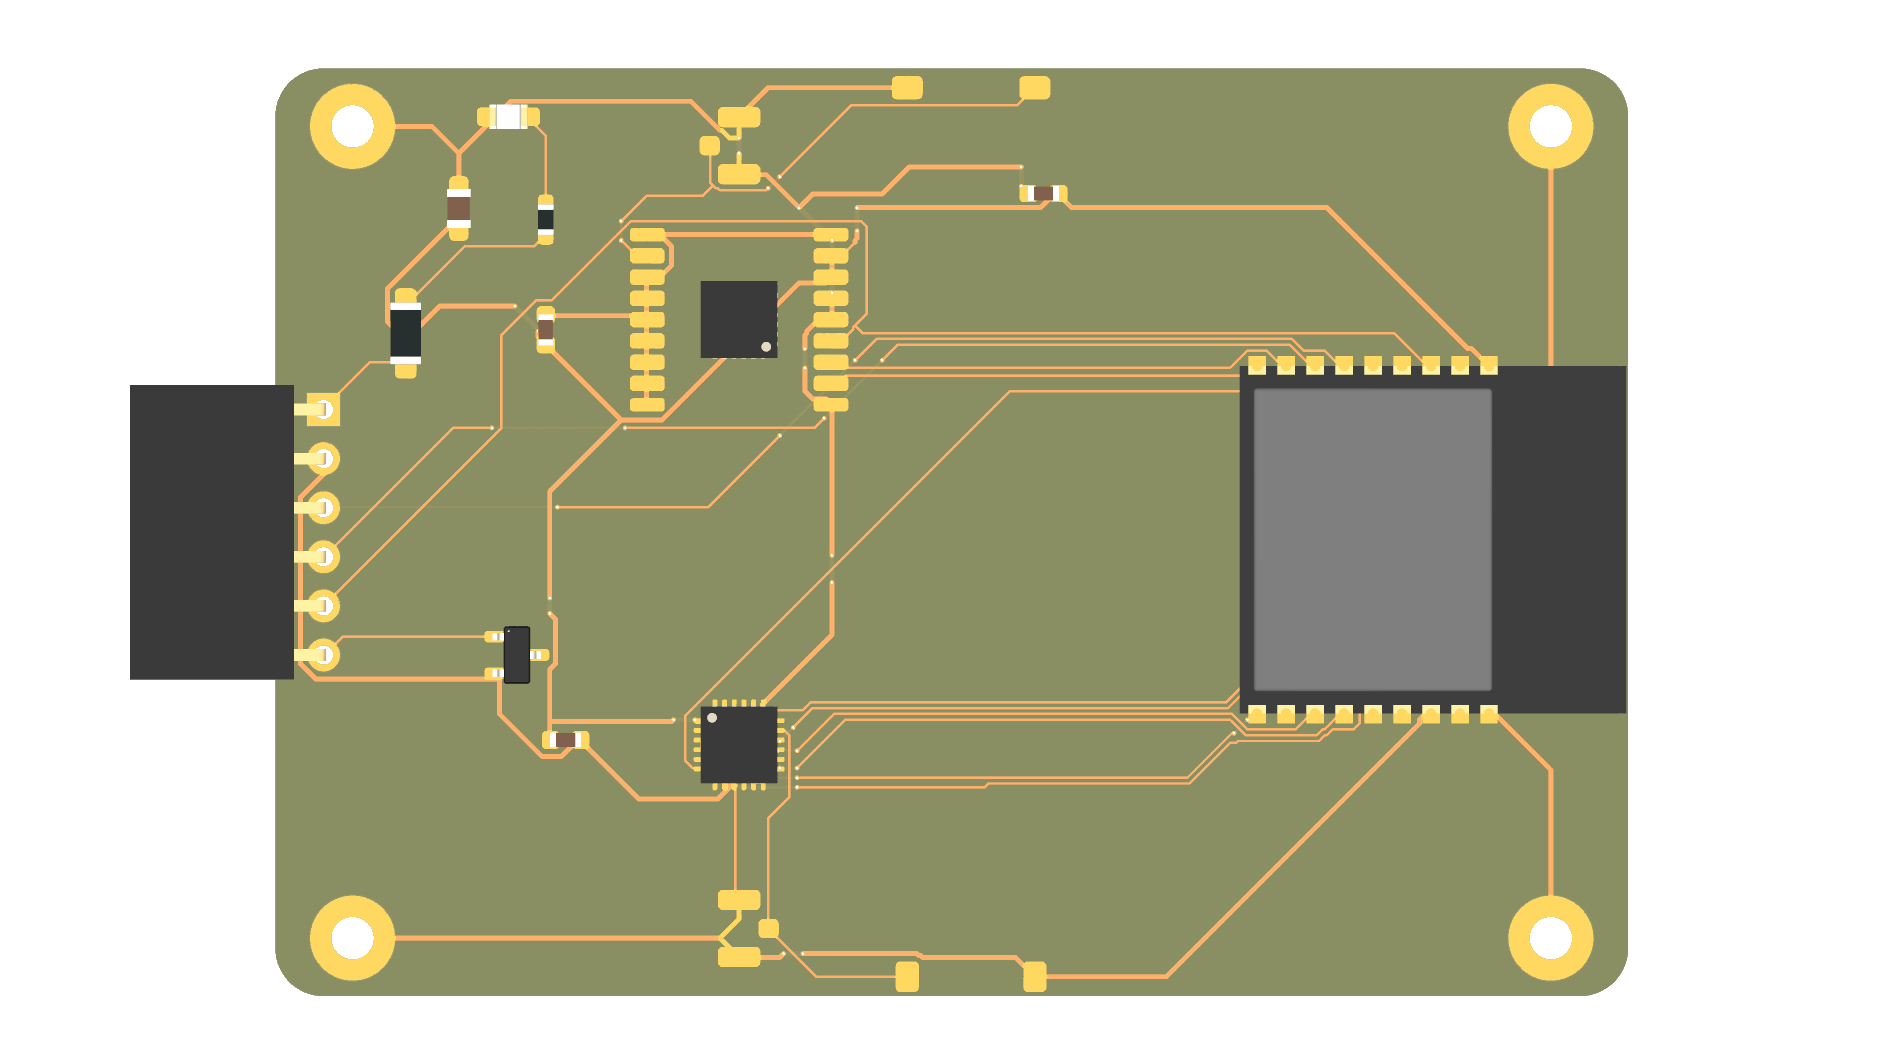
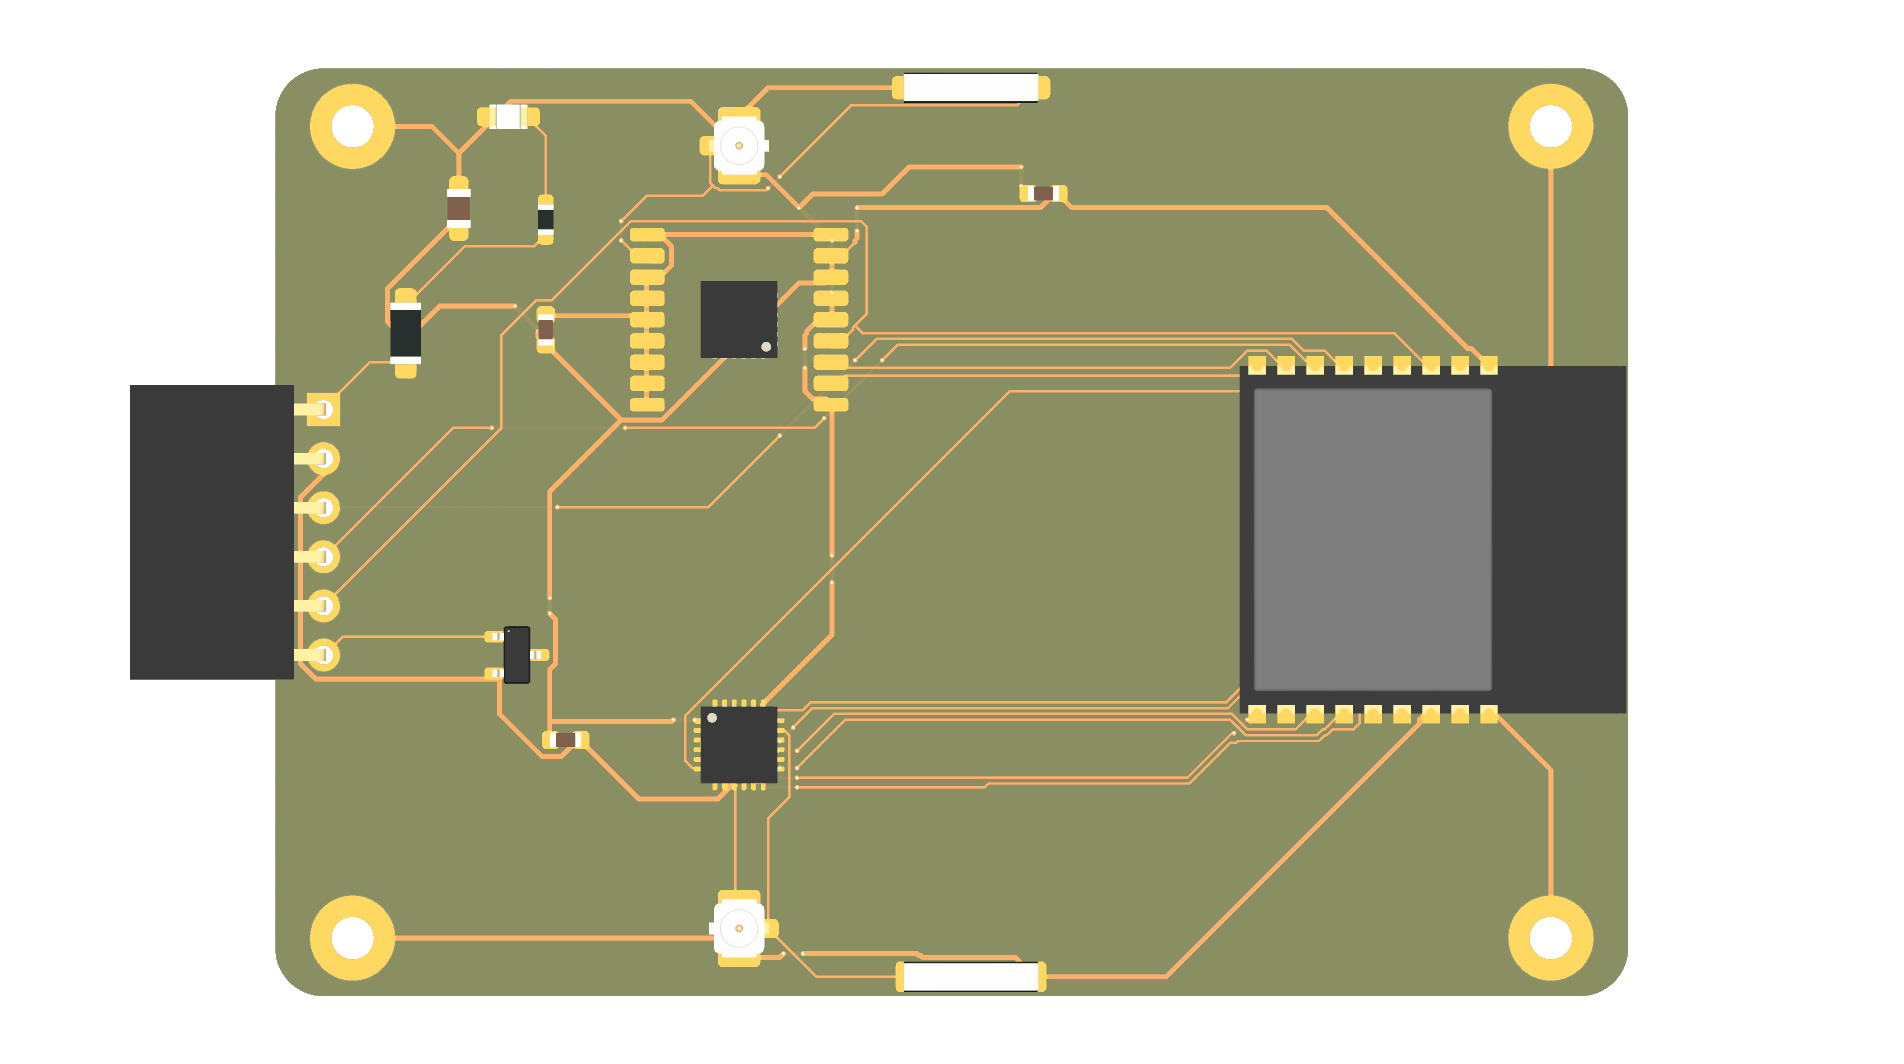
fix(hardware): assign KiCad 10 3D models for antennas and U.FL connectors on Rear Pod 3
- Added 3D model Pulse_W3000.step for ANT1 (LoRa 868MHz) and ANT2 (GNSS 1.575GHz).
- Added 3D model U.FL_Hirose_U.FL-R-SMT-1_Vertical.step for external RF coaxial ports J2 and J3.
- Migrated all legacy ${KICAD8_3DMODEL_DIR} path references to native KiCad 10 ${KICAD10_3DMODEL_DIR}.
- Synchronized generate_rear_pod3_routed_ready.py with KiCad 10 paths and antenna models.
- Re-rendered 3D top/bottom PCB views now displaying the white ceramic chip antennas and gold U.FL receptacles.

diff --git a/hardware/scripts/generate_rear_pod3_routed_ready.py b/hardware/scripts/generate_rear_pod3_routed_ready.py
@@ -12,7 +12,7 @@ import re
 
 pcb_file = "hardware/kicad_rear_pod3/openmotorbridge_rear_pod3.kicad_pcb"
 kicad_fp_dir = "/Applications/KiCad/KiCad.app/Contents/SharedSupport/footprints"
-kicad_3d_dir = "${KICAD8_3DMODEL_DIR}"
+kicad_3d_dir = "${KICAD10_3DMODEL_DIR}"
 
 # 1. Netlist definition
 nets = [
@@ -188,13 +188,13 @@ components = [
     # u-blox MAX-M10S GNSS Subsystem & Antennas (Top edge - U2 rotated 180 for direct RF/SPI alignment)
     ("RF_GPS.pretty/ublox_MAX.kicad_mod", "U2", "MAX-M10S_GNSS", 124.00, 83.00, 180, "F.Cu", "Package_DFN_QFN.3dshapes/QFN-24-1EP_4x4mm_P0.5mm_EP2.6x2.6mm.step"),
     ("Capacitor_SMD.pretty/C_0603_1608Metric.kicad_mod", "C3", "100nF_GNSS", 114.00, 83.53, 90, "F.Cu", "Capacitor_SMD.3dshapes/C_0603_1608Metric.step"),
-    ("Connector_Coaxial.pretty/U.FL_Hirose_U.FL-R-SMT-1_Vertical.kicad_mod", "J3", "GNSS_UFL", 124.00, 74.00, 0, "F.Cu", None),
-    ("RF_Antenna.pretty/Pulse_W3000.kicad_mod", "ANT2", "GNSS_Patch_Antenna", 136.00, 71.00, 180, "F.Cu", None),
+    ("Connector_Coaxial.pretty/U.FL_Hirose_U.FL-R-SMT-1_Vertical.kicad_mod", "J3", "GNSS_UFL", 124.00, 74.00, 0, "F.Cu", "Connector_Coaxial.3dshapes/U.FL_Hirose_U.FL-R-SMT-1_Vertical.step"),
+    ("RF_Antenna.pretty/Pulse_W3000.kicad_mod", "ANT2", "GNSS_Patch_Antenna", 136.00, 71.00, 180, "F.Cu", "RF_Antenna.3dshapes/Pulse_W3000.step"),
     # Semtech SX1262 LoRa Subsystem & Antennas (Bottom edge)
     ("Package_DFN_QFN.pretty/QFN-24-1EP_4x4mm_P0.5mm_EP2.6x2.6mm.kicad_mod", "U3", "SX1262_LoRa_+22dBm", 124.00, 105.00, 0, "F.Cu", "Package_DFN_QFN.3dshapes/QFN-24-1EP_4x4mm_P0.5mm_EP2.6x2.6mm.step"),
     ("Capacitor_SMD.pretty/C_0603_1608Metric.kicad_mod", "C4", "100nF_LoRa", 115.03, 104.75, 0, "F.Cu", "Capacitor_SMD.3dshapes/C_0603_1608Metric.step"),
-    ("Connector_Coaxial.pretty/U.FL_Hirose_U.FL-R-SMT-1_Vertical.kicad_mod", "J2", "LORA_UFL", 124.00, 114.50, 180, "F.Cu", None),
-    ("RF_Antenna.pretty/Pulse_W3000.kicad_mod", "ANT1", "868MHz_LoRa_Antenna", 136.00, 117.00, 0, "F.Cu", None),
+    ("Connector_Coaxial.pretty/U.FL_Hirose_U.FL-R-SMT-1_Vertical.kicad_mod", "J2", "LORA_UFL", 124.00, 114.50, 180, "F.Cu", "Connector_Coaxial.3dshapes/U.FL_Hirose_U.FL-R-SMT-1_Vertical.step"),
+    ("RF_Antenna.pretty/Pulse_W3000.kicad_mod", "ANT1", "868MHz_LoRa_Antenna", 136.00, 117.00, 0, "F.Cu", "RF_Antenna.3dshapes/Pulse_W3000.step"),
     # ESP32-C3 RISC-V Mesh MCU (Centered rear facing tail clearance)
     ("RF_Module.pretty/ESP32-C3-WROOM-02.kicad_mod", "U1", "ESP32-C3-WROOM-02", 156.80, 94.39, -90, "F.Cu", "RF_Module.3dshapes/ESP32-C3-WROOM-02.step"),
     ("Capacitor_SMD.pretty/C_0805_2012Metric.kicad_mod", "C1", "10uF_3V3", 109.50, 77.25, 90, "F.Cu", "Capacitor_SMD.3dshapes/C_0805_2012Metric.step"),
